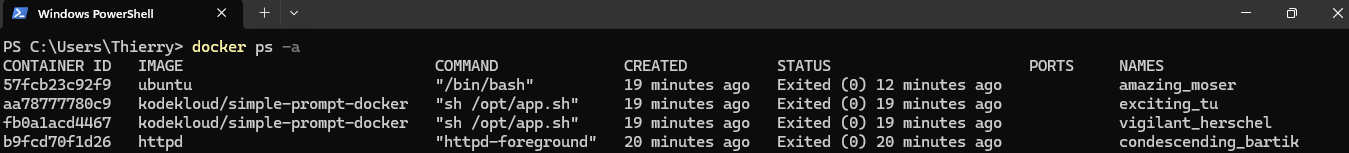
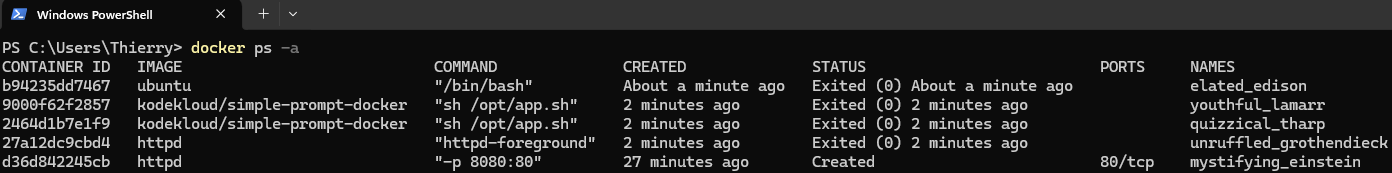
feat: ajout de la partie port-forwarding

diff --git a/README.md b/README.md
@@ -77,7 +77,29 @@ Exécutez les commandes `pwd` puis `ls` pour respectivement identifier le réper
 
 Exécutez la commande `exit` pour sortir du conteneur, puis la commande `docker ps` pour constater que le conteneur a été arrêté suite à votre sortie.
 
-## 4. Suppression des images
+## 4. Le port-mapping
+
+Lors de l'exercice 1, vous avez lancé un conteneur httpd mais il n'existait aucun moyen d'accéder à l'application qu'il hébergeait. En effet, il est nécessaire d'effectuer du **port-mapping** pour accéder à l'application hébergée par un conteneur.
+
+Pour rappel, le port-mapping permet de "mapper" un port du Docker Host avec le port du conteneur que son application écoute :
+
+![port mapping](./img/schema-port-mapping.png)
+
+Exécutez la commande `docker run -p 8080:80 httpd` pour lancer un conteneur httpd en mappant le **port 8080 du Docker Host** avec le **port 80 du conteneur** :
+
+![httpd port mapping](./img/httpd-port-mapping.png)
+
+Ouvrez une nouvelle fenêtre de termial et exécutez la commande `docker ps` pour observer les informations affichées sur ce conteneur :
+
+![ps port mapping](./img/docker-ps-port-mapping.png)
+
+Notez que le port-mapping configuré est affiché dans la colonne PORTS.
+
+Ouvrez maintenant le navigateur de votre choix et accédez à l'URL http://localhost:8080 pour accéder à l'application hébergée par le conteneur :
+
+![httpd homepage](./img/httpd-homepage.png)
+
+## 5. Suppression des images
 
 La commande **docker rmi** permet de supprimer une image présente sur un Docker Host.
 
